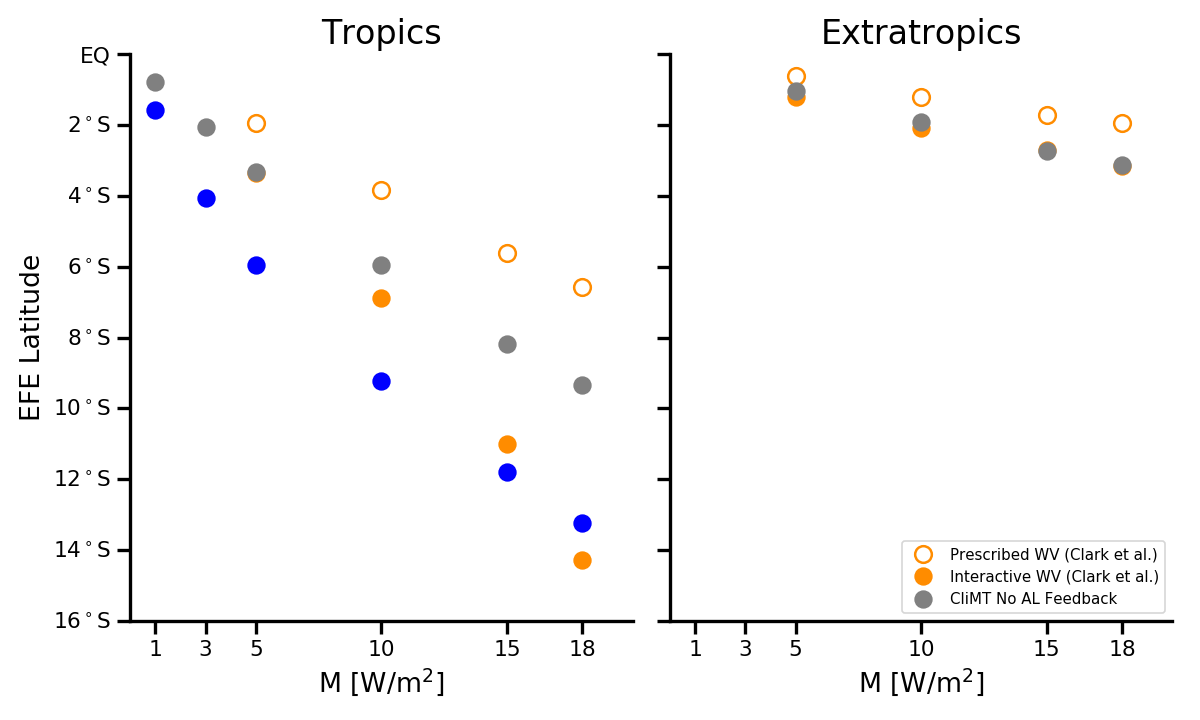
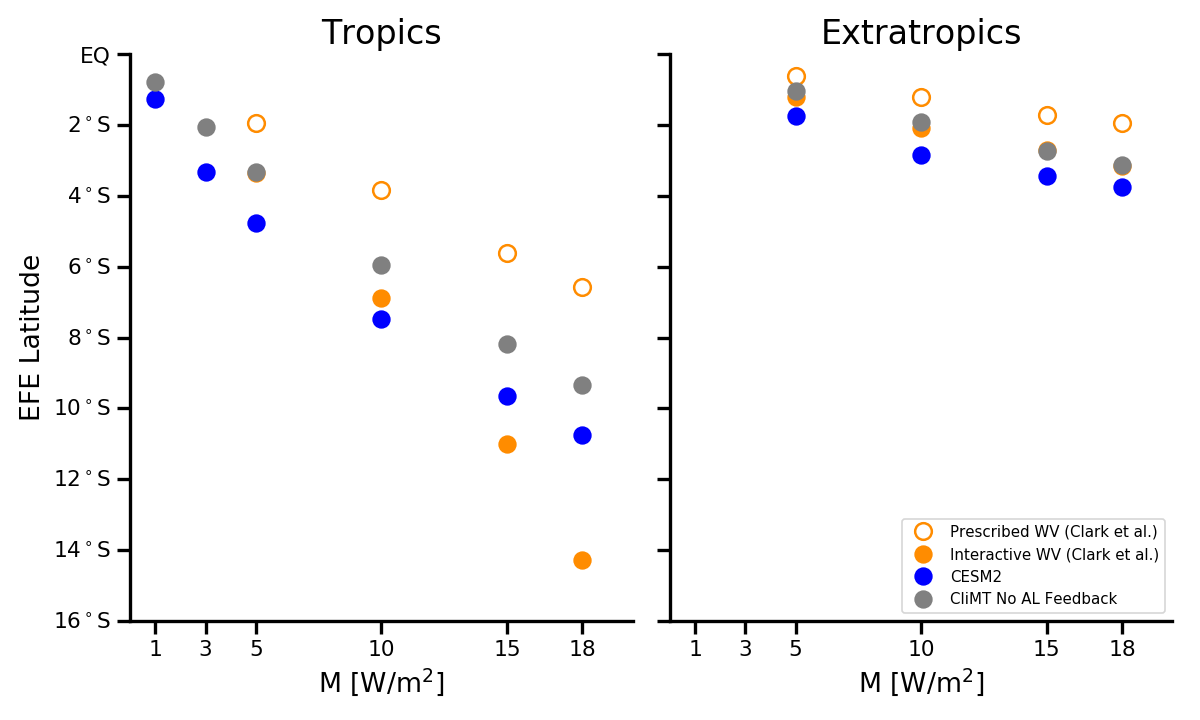
new aqua sims

diff --git a/images/paper_plots/plot_sensitivities.py b/images/paper_plots/plot_sensitivities.py
@@ -68,6 +68,8 @@ ax2.plot(intensities, 1/scaling * itczs, color=color_dict['darkorange'], marker=
 # CESM
 centers, spreads, intensities, EFEs = get_data("sensitivity_cesm2.dat", "tropics")
 ax1.plot(intensities, EFEs, marker='o', color=color_dict["blue"], linestyle='', label="CESM2")
+centers, spreads, intensities, EFEs = get_data("sensitivity_cesm2.dat", "extratropics")
+ax2.plot(intensities, EFEs, marker='o', color=color_dict["blue"], linestyle='', label="CESM2")
 
 # plot all the data
 for f in files:
